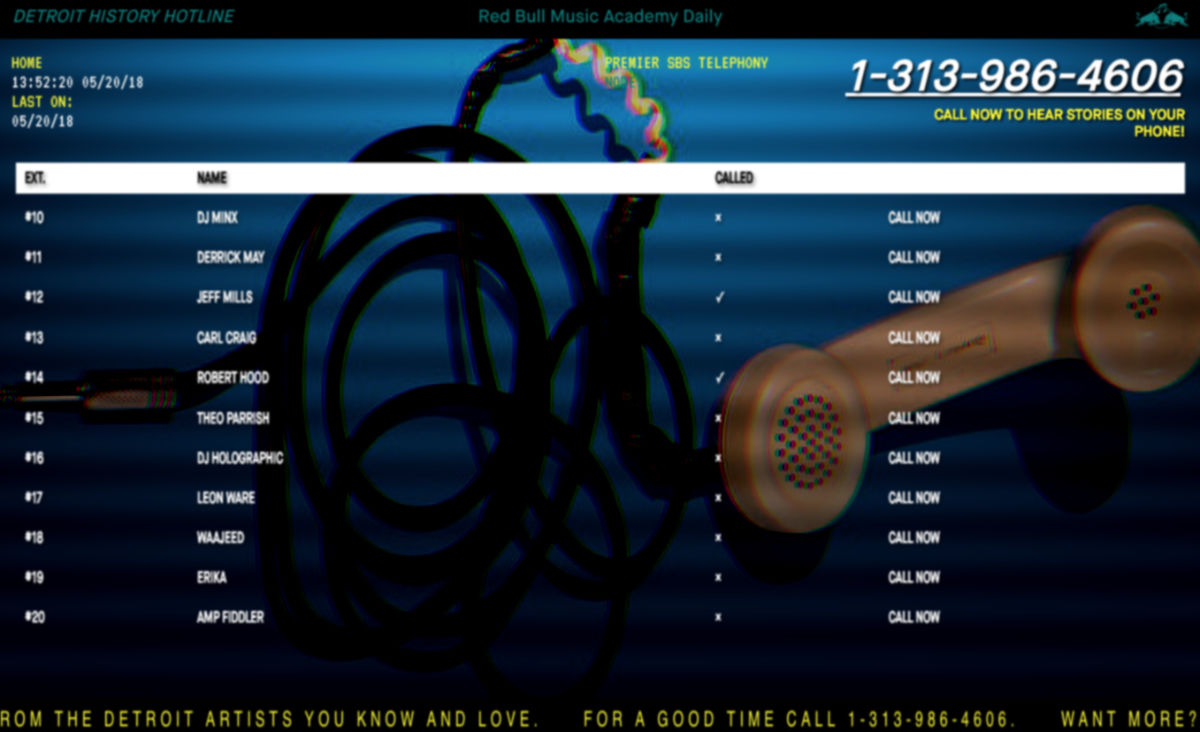
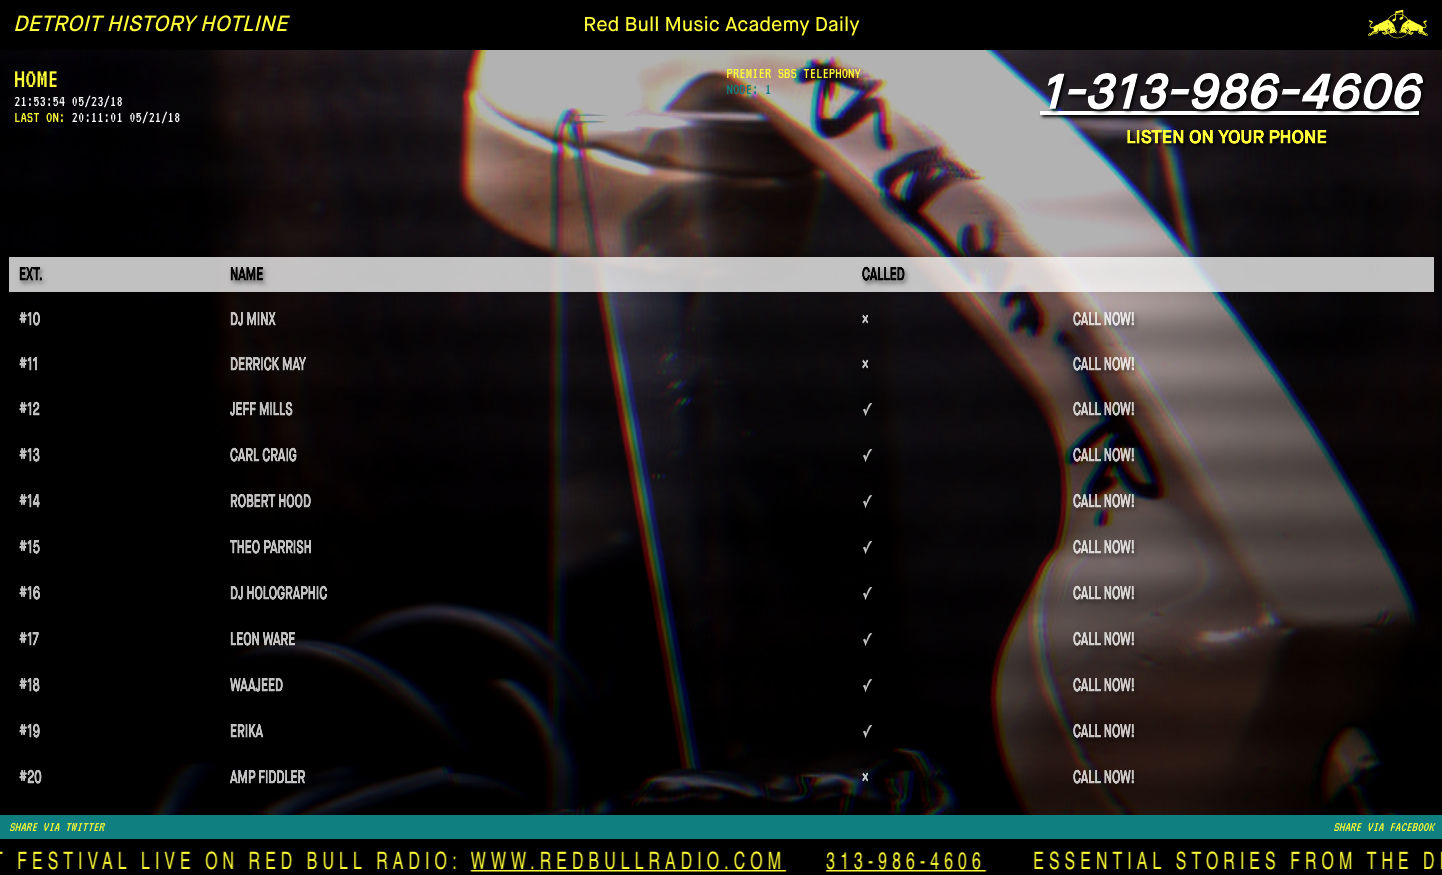
fix more issues

diff --git a/src/data/index.js b/src/data/index.js
@@ -51,7 +51,7 @@ const data: Array<ItemData> = [
     hasCalled: false,
     image: require('../images/carl_craig.jpg'),
     slug: 'carl_craig',
-    text: 'Carl Craig talks rejecting the Detroit’s musical cliches'
+    text: 'Carl Craig talks rejecting Detroit’s musical cliches'
   },
 
   {
@@ -96,7 +96,7 @@ const data: Array<ItemData> = [
     hasCalled: false,
     image: require('../images/waajeed.jpg'),
     slug: 'waajeed',
-    text: 'Waajeed on about the purity of Detroit’s musical integrity'
+    text: 'Waajeed on the purity of Detroit’s musical integrity'
   },
   {
     id: 19,

diff --git a/src/scene/fragment.js b/src/scene/fragment.js
@@ -53,12 +53,12 @@ const fragment = `
 
     // offset colors a bit
     if (u_flash > 0.0){
-      col.g = col.g * sin(u_flash * 5000.0) - cos(u_time);
+      col.g = col.g * sin(u_flash * 50000.0) - cos(u_time);
       col.xyz = floor(col.xyz * pal) / pal.xyz;
-      gl_FragColor = vec4(col, 1.0);
+      gl_FragColor = vec4(col - 0.5, 1.0);
     }
     else {
-      gl_FragColor = vec4(col - 0.25, 1.0);
+      gl_FragColor = vec4(col - 0.05, 1.0);
     }
     
     

diff --git a/src/index.js b/src/index.js
@@ -11,3 +11,8 @@ ReactDOM.render(
   document.getElementById('root')
 );
 registerServiceWorker();
+
+console.log(
+  '%c CALL NOW: 313-986-4606\nPhotos: Max Schiano, Clare Gatto, Jeremy Deputat, Conor Anderson, Erika, Camera Jesus, Corine Vermuelen, Yasaku Aoki, Nakshot, Anders Neuman, Trevor Dernai, Red Bull Content Pool',
+  'font-size: 12px; background-color: rgb(20,200,20);padding: 10px;font-family: cursive;'
+);

diff --git a/src/components/Dashboard/Stats/Stats.js b/src/components/Dashboard/Stats/Stats.js
@@ -74,7 +74,7 @@ export default class Stats extends Component {
             <a href="tel:+13139864606">1-313-986-4606</a>
           </h1>
           <p>
-            <span>Call Now!</span> for stories on your phone!
+            Listen On Your Phone <span>Call Now!</span>
           </p>
         </div>
       </div>

diff --git a/src/components/Nav/Nav.css b/src/components/Nav/Nav.css
@@ -25,11 +25,15 @@
 
 .Hed {
   position: absolute;
-  left: 16px;
+  left: 14px;
   top: 0;
   line-height: 50px;
   font-style: italic;
   text-transform: uppercase;
+  font-size: 16px;
+  @media (min-width: 760px) {
+    font-size: 22px;
+  }
   a {
     color: inherit;
     text-decoration: none;

diff --git a/src/config/index.js b/src/config/index.js
@@ -2,5 +2,5 @@ export default {
   RADIO_EMBED:
     'https://www.redbullradio.com/shows/main-stage/episodes/analog-kultur-experiment-sonar-istanbul/embed',
 
-  cdn: 'https://s3.amazonaws.com/detroit-history-hotline-assets/'
+  cdn: 'https://d2cpmbyzucztyc.cloudfront.net/'
 };

diff --git a/src/components/Dashboard/Stats/Stats.css b/src/components/Dashboard/Stats/Stats.css
@@ -45,6 +45,9 @@
       padding: 0;
       user-select: none;
       -webkit-tap-highglight-color: transparent;
+      @media (min-width: 760px) {
+        display: inline-block;
+      }
     }
   }
 
